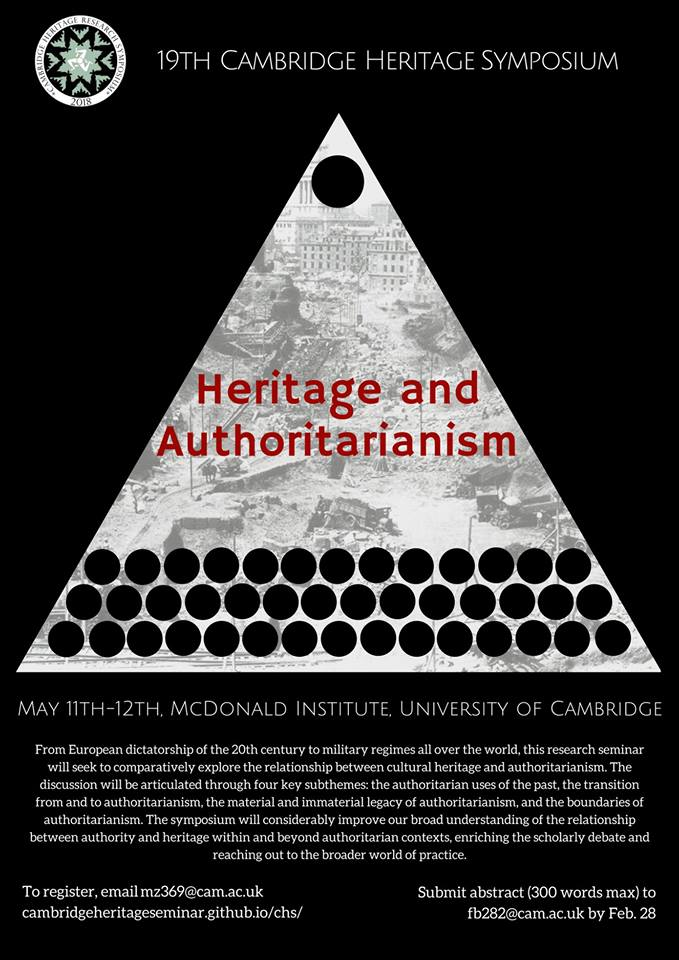
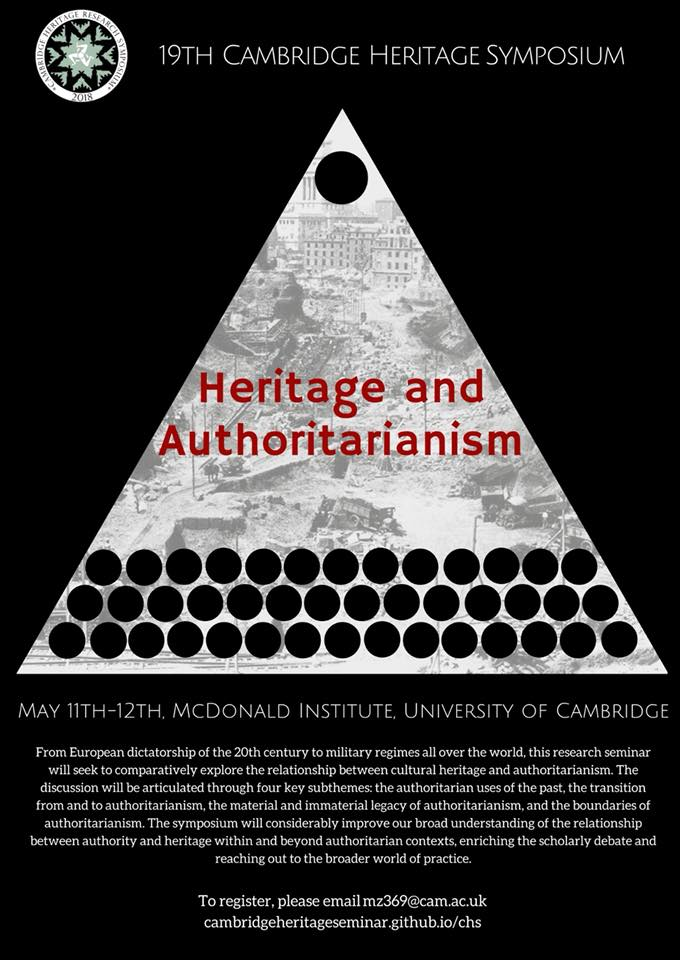
changed program

Changed region(s): [[0.0309, 0.0312, 0.9897, 0.9688], [0.0309, 0.0, 0.1856, 0.125], [0.2474, 0.5312, 0.2784, 0.5625]]

diff --git a/index.html b/index.html
@@ -23,9 +23,9 @@
 				    			<li class="dropdown">
 				    			<a href="#2018" class="dropdown-toggle" data-toggle="dropdown" role="button" aria-haspopup="true" aria-expanded="false">2018<span class="caret"></span></a>
 				    				<ul class="dropdown-menu">
-				    					<li><a href="#contact">Call for papers/posters</a></li>
+				    					<li><a href="#contact">Registration</a></li>
 				    					<li><a href="#venue">Venue</a></li>
-           								<!--<li><a href="#draft">Program</a></li>-->
+           								<li><a href="#draft">Program</a></li>
            								<li><a href="#pics">Photos</a></li>
            							</ul>
            						</li>
@@ -78,17 +78,17 @@ From European dictatorships of the 20th century to military regimes all over the
 <p>Through the exploration of these aspects, this seminar will considerably improve our broad understanding of the relationship between authority and heritage within and beyond authoritarian contexts, enriching the scholarly debate and reaching out to the broader world of practice.</p>
 </div>
  <div class="container text-center">
-<h3></a>Call for papers</h3>
+<!--<h3></a>Call for papers</h3>
         	<p>Please download here the call for papers/posters</p>
-        	<br><a href="2018_call.pdf" target="_blank"><button type="button">Call for papers/posters</button></a></p>
+        	<br><a href="2018_call.pdf" target="_blank"><button type="button">Call for papers/posters</button></a></p>-->
         	<br> 
 	 	 <div class="row">
-			<h3></a>Submit your abstract</h3>
+			<h3></a>Register</h3>
 			<div class="col-sm-6">
 					<div class="text-center">
-          						<h3><a name="contact"></a>Submit your abstract here</h3>
-          						<p>Please send abstracts of no more than 300 words to Flaminia Bartolini (fb282@cam.ac.uk) by the <span style="font-weight:bold">28 th of February 2018.</span></p>
-          				<br/><a href="mailto:fb282@cam.ac.uk"><button type="button">Send an email</button></a></p>
+          						<h3><a name="draft"></a>Program</h3>
+          						<!--<p>Please send abstracts of no more than 300 words to Flaminia Bartolini (fb282@cam.ac.uk) by the <span style="font-weight:bold">28 th of February 2018.</span></p> -->
+          				<br/><a href="program18.docx"><button type="button">Donwload program</button></a></p>
 
           			</div>
 			<!-- <p>To register to the symposium please write to Flaminia Bartolini. To secure your place you can buy your tickets in our online store</p>
@@ -103,7 +103,7 @@ From European dictatorships of the 20th century to military regimes all over the
           		</div>
           		<div class="col-sm-6">
 					<div class="text-center">
-          				<h3>Register here</h3>
+          				<h3><a name="contact"></a>Register here</h3>
           				<p>To register for the seminar, please write to Minjae Zoh (mz369@cam.ac.uk).</p>
           				<br/><a href="mailto:mz369@cam.ac.uk"><button type="button">Send an email</button></a></p>
           			</div>
